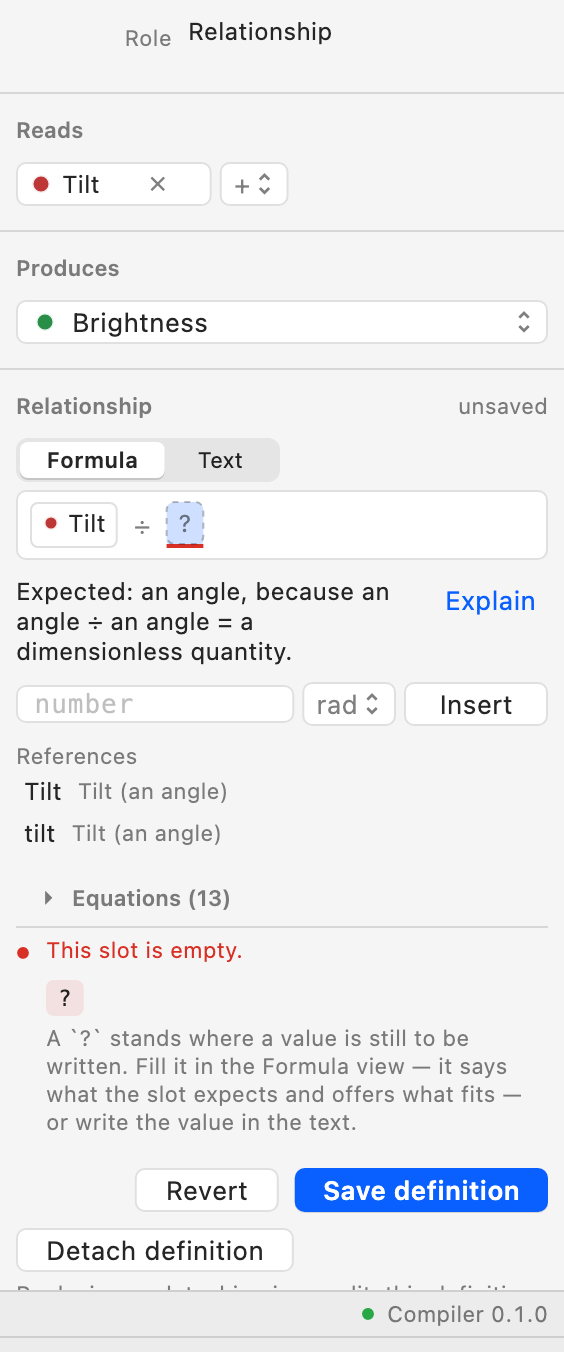
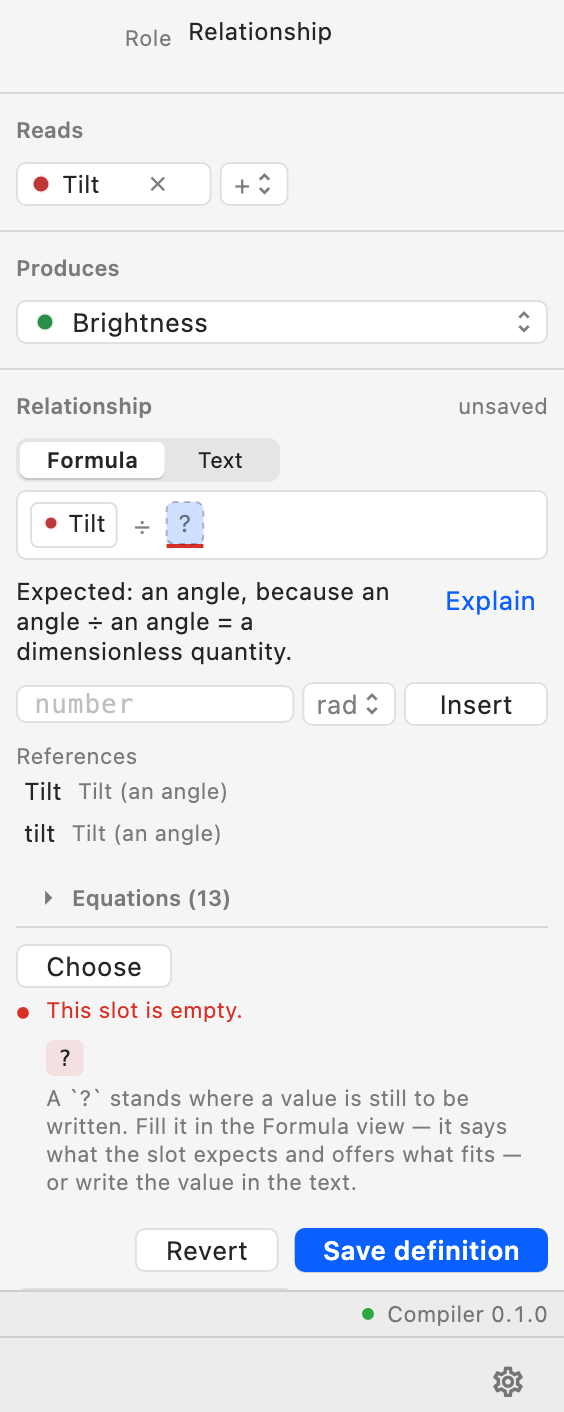
docs(user-guide): recapture the Formula view screenshot with the Choose button

diff --git a/locale/user-guide/zh_Hans/getting-started/first-behavior.md b/locale/user-guide/zh_Hans/getting-started/first-behavior.md
@@ -59,7 +59,7 @@ _一个已声明的关系：虚线轮廓，标题中写着“已声明”。_
 
 两个视图编辑的是同一个公式。按 **⌘↩** 或点击**添加定义**。
 
-![The Relationship section of the inspector in Formula view: a Formula | Text switch, then the formula as components — a Tilt chip, a division sign and a dashed empty slot with a red underline — and beneath it the line Expected: an angle, because an angle ÷ an angle = a dimensionless quantity with an Explain link, a number entry with a unit pop-up reading rad and an Insert button, a References list with Tilt and tilt, and a folded Equations row.](../../../../docs/user-guide/assets/studio/formula-composer.png)
+![The Relationship section of the inspector in Formula view: a Formula | Text switch, then the formula as components — a Tilt chip, a division sign and a dashed empty slot with a red underline — and beneath it the line Expected: an angle, because an angle ÷ an angle = a dimensionless quantity with an Explain link, a number entry with a unit pop-up reading rad and an Insert button, a References list with Tilt and tilt, a folded Equations row and a Choose button.](../../../../docs/user-guide/assets/studio/formula-composer.png)
 
 _选中分母槽位的公式视图：编译器说明该槽位期望角度及原因，并提供带角度单位的数字、合适的引用，以及结果类型合适的方程。_
 

diff --git a/locale/user-guide/ja/studio/formula-editor.md b/locale/user-guide/ja/studio/formula-editor.md
@@ -12,7 +12,7 @@
 
 ## 数式を組み立てる
 
-![The Relationship section of the inspector in Formula view: a Formula | Text switch, then the formula as components — a Tilt chip, a division sign and a dashed empty slot with a red underline — and beneath it the line Expected: an angle, because an angle ÷ an angle = a dimensionless quantity with an Explain link, a number entry with a unit pop-up reading rad and an Insert button, a References list with Tilt and tilt, and a folded Equations row.](../../../../docs/user-guide/assets/studio/formula-composer.png)
+![The Relationship section of the inspector in Formula view: a Formula | Text switch, then the formula as components — a Tilt chip, a division sign and a dashed empty slot with a red underline — and beneath it the line Expected: an angle, because an angle ÷ an angle = a dimensionless quantity with an Explain link, a number entry with a unit pop-up reading rad and an Insert button, a References list with Tilt and tilt, a folded Equations row and a Choose button.](../../../../docs/user-guide/assets/studio/formula-composer.png)
 
 _分母のスロットを選択した数式ビュー：コンパイラはスロットが角度を期待することとその理由を述べ、角度の単位付きの数値、適合する参照、結果が適合する方程式を提示する。_
 

diff --git a/docs/user-guide/getting-started/first-behavior.md b/docs/user-guide/getting-started/first-behavior.md
@@ -84,7 +84,7 @@ _A declared relationship: dashed outline and the word declared in its header._
 
    Both views edit the same formula. Press **⌘↩** or click **Add definition**.
 
-![The Relationship section of the inspector in Formula view: a Formula | Text switch, then the formula as components — a Tilt chip, a division sign and a dashed empty slot with a red underline — and beneath it the line Expected: an angle, because an angle ÷ an angle = a dimensionless quantity with an Explain link, a number entry with a unit pop-up reading rad and an Insert button, a References list with Tilt and tilt, and a folded Equations row.](../assets/studio/formula-composer.png)
+![The Relationship section of the inspector in Formula view: a Formula | Text switch, then the formula as components — a Tilt chip, a division sign and a dashed empty slot with a red underline — and beneath it the line Expected: an angle, because an angle ÷ an angle = a dimensionless quantity with an Explain link, a number entry with a unit pop-up reading rad and an Insert button, a References list with Tilt and tilt, a folded Equations row and a Choose button.](../assets/studio/formula-composer.png)
 
 _The Formula view with the denominator slot selected: the compiler says the slot
 expects an angle and why, and offers a number with the angle units, the

diff --git a/locale/user-guide/zh_Hans/studio/formula-editor.md b/locale/user-guide/zh_Hans/studio/formula-editor.md
@@ -12,7 +12,7 @@
 
 ## 拼装公式
 
-![The Relationship section of the inspector in Formula view: a Formula | Text switch, then the formula as components — a Tilt chip, a division sign and a dashed empty slot with a red underline — and beneath it the line Expected: an angle, because an angle ÷ an angle = a dimensionless quantity with an Explain link, a number entry with a unit pop-up reading rad and an Insert button, a References list with Tilt and tilt, and a folded Equations row.](../../../../docs/user-guide/assets/studio/formula-composer.png)
+![The Relationship section of the inspector in Formula view: a Formula | Text switch, then the formula as components — a Tilt chip, a division sign and a dashed empty slot with a red underline — and beneath it the line Expected: an angle, because an angle ÷ an angle = a dimensionless quantity with an Explain link, a number entry with a unit pop-up reading rad and an Insert button, a References list with Tilt and tilt, a folded Equations row and a Choose button.](../../../../docs/user-guide/assets/studio/formula-composer.png)
 
 _选中分母槽位的公式视图：编译器说明该槽位期望角度及原因，并提供带角度单位的数字、合适的引用，以及结果类型合适的方程。_
 

diff --git a/docs/user-guide/studio/formula-editor.md b/docs/user-guide/studio/formula-editor.md
@@ -13,7 +13,7 @@ you read in the other.
 
 ## Assembling a formula
 
-![The Relationship section of the inspector in Formula view: a Formula | Text switch, then the formula as components — a Tilt chip, a division sign and a dashed empty slot with a red underline — and beneath it the line Expected: an angle, because an angle ÷ an angle = a dimensionless quantity with an Explain link, a number entry with a unit pop-up reading rad and an Insert button, a References list with Tilt and tilt, and a folded Equations row.](../assets/studio/formula-composer.png)
+![The Relationship section of the inspector in Formula view: a Formula | Text switch, then the formula as components — a Tilt chip, a division sign and a dashed empty slot with a red underline — and beneath it the line Expected: an angle, because an angle ÷ an angle = a dimensionless quantity with an Explain link, a number entry with a unit pop-up reading rad and an Insert button, a References list with Tilt and tilt, a folded Equations row and a Choose button.](../assets/studio/formula-composer.png)
 
 _The Formula view with the denominator slot selected: the compiler says the slot
 expects an angle and why, and offers a number with the angle units, the
